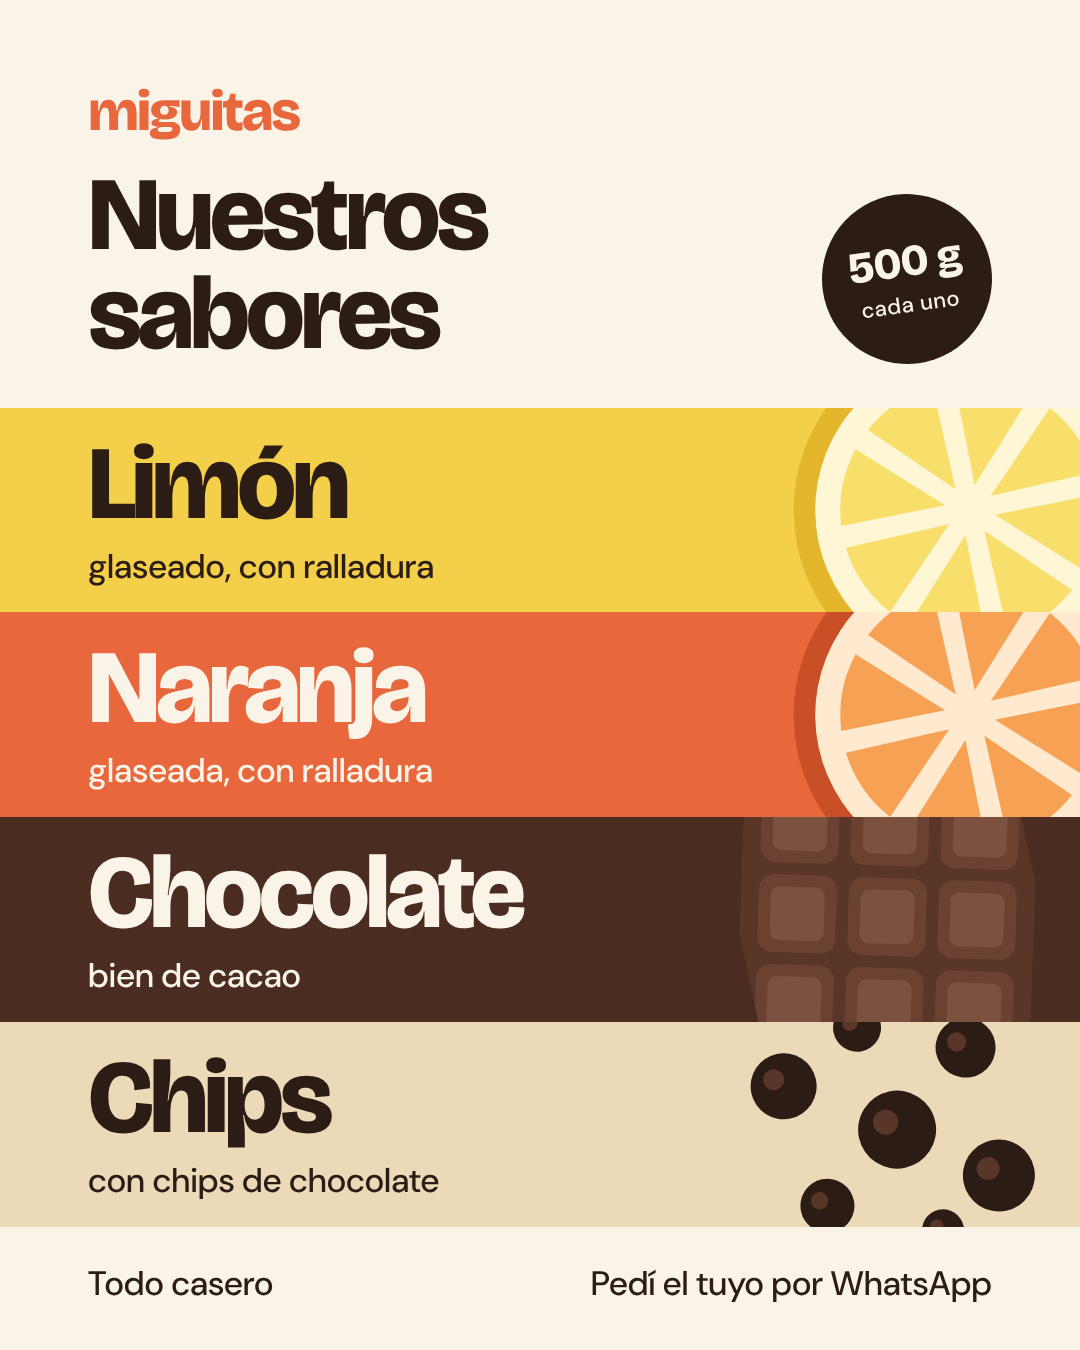
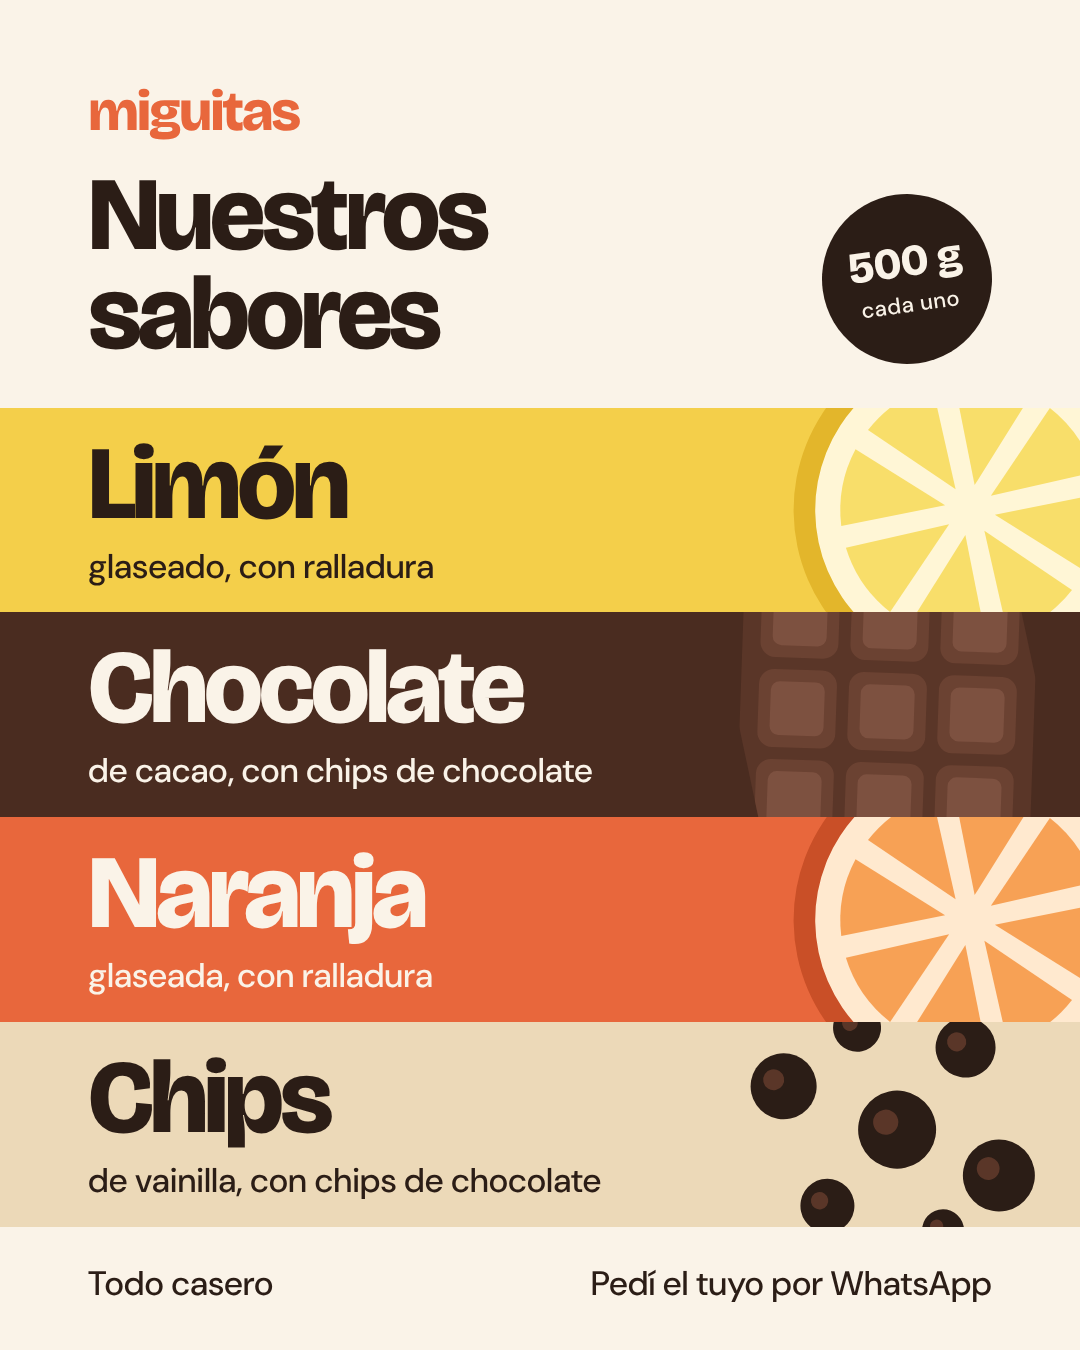
Instagram: orden y descripciones de la placa de sabores
Claude-Session: https://claude.ai/code/session_01E37741rvoTVLUcn2uQcmpN

Changed region(s): [[0.0, 0.4356, 1.0, 0.7778], [0.0917, 0.8711, 0.55, 0.9022]]

diff --git a/instagram/piezas.html b/instagram/piezas.html
@@ -97,9 +97,9 @@ body{background:#ddd;display:flex;flex-wrap:wrap;gap:40px;padding:40px;font-fami
 <div class="pieza post" id="p-sabores">
   <div class="cab"><div><div class="marca chica" style="color:var(--mandarina)">miguitas</div><h1>Nuestros<br>sabores</h1></div><div class="peso"><div>500 g<small>cada uno</small></div></div></div>
   <div class="sabor" style="background:var(--limon)"><b>Limón</b><span>glaseado, con ralladura</span><svg viewBox="0 0 100 100"><circle cx="50" cy="50" r="49" fill="#e3b62b"/><circle cx="50" cy="50" r="43" fill="#fff6d6"/><path d="M56.5 52.7L85.9 53.1A36 36 0 0 1 77.6 73.1Z" fill="#f8de6a"/><path d="M52.7 56.5L73.1 77.6A36 36 0 0 1 53.1 85.9Z" fill="#f8de6a"/><path d="M47.3 56.5L46.9 85.9A36 36 0 0 1 26.9 77.6Z" fill="#f8de6a"/><path d="M43.5 52.7L22.4 73.1A36 36 0 0 1 14.1 53.1Z" fill="#f8de6a"/><path d="M43.5 47.3L14.1 46.9A36 36 0 0 1 22.4 26.9Z" fill="#f8de6a"/><path d="M47.3 43.5L26.9 22.4A36 36 0 0 1 46.9 14.1Z" fill="#f8de6a"/><path d="M52.7 43.5L53.1 14.1A36 36 0 0 1 73.1 22.4Z" fill="#f8de6a"/><path d="M56.5 47.3L77.6 26.9A36 36 0 0 1 85.9 46.9Z" fill="#f8de6a"/></svg></div>
+  <div class="sabor" style="background:var(--choco);color:var(--crema)"><b>Chocolate</b><span>de cacao, con chips de chocolate</span><svg class="chica" viewBox="0 0 100 100"><g transform="rotate(14 50 50)"><rect x="0" y="0" width="98" height="98" rx="9" fill="#5a3628"/><rect x="6" y="6" width="26" height="26" rx="5" fill="#6b4232"/><rect x="10" y="10" width="18" height="18" rx="3" fill="#7d5140"/><rect x="36" y="6" width="26" height="26" rx="5" fill="#6b4232"/><rect x="40" y="10" width="18" height="18" rx="3" fill="#7d5140"/><rect x="66" y="6" width="26" height="26" rx="5" fill="#6b4232"/><rect x="70" y="10" width="18" height="18" rx="3" fill="#7d5140"/><rect x="6" y="36" width="26" height="26" rx="5" fill="#6b4232"/><rect x="10" y="40" width="18" height="18" rx="3" fill="#7d5140"/><rect x="36" y="36" width="26" height="26" rx="5" fill="#6b4232"/><rect x="40" y="40" width="18" height="18" rx="3" fill="#7d5140"/><rect x="66" y="36" width="26" height="26" rx="5" fill="#6b4232"/><rect x="70" y="40" width="18" height="18" rx="3" fill="#7d5140"/><rect x="6" y="66" width="26" height="26" rx="5" fill="#6b4232"/><rect x="10" y="70" width="18" height="18" rx="3" fill="#7d5140"/><rect x="36" y="66" width="26" height="26" rx="5" fill="#6b4232"/><rect x="40" y="70" width="18" height="18" rx="3" fill="#7d5140"/><rect x="66" y="66" width="26" height="26" rx="5" fill="#6b4232"/><rect x="70" y="70" width="18" height="18" rx="3" fill="#7d5140"/></g></svg></div>
   <div class="sabor" style="background:var(--mandarina);color:var(--crema)"><b>Naranja</b><span>glaseada, con ralladura</span><svg viewBox="0 0 100 100"><circle cx="50" cy="50" r="49" fill="#c94f27"/><circle cx="50" cy="50" r="43" fill="#ffe9cf"/><path d="M56.5 52.7L85.9 53.1A36 36 0 0 1 77.6 73.1Z" fill="#f7a155"/><path d="M52.7 56.5L73.1 77.6A36 36 0 0 1 53.1 85.9Z" fill="#f7a155"/><path d="M47.3 56.5L46.9 85.9A36 36 0 0 1 26.9 77.6Z" fill="#f7a155"/><path d="M43.5 52.7L22.4 73.1A36 36 0 0 1 14.1 53.1Z" fill="#f7a155"/><path d="M43.5 47.3L14.1 46.9A36 36 0 0 1 22.4 26.9Z" fill="#f7a155"/><path d="M47.3 43.5L26.9 22.4A36 36 0 0 1 46.9 14.1Z" fill="#f7a155"/><path d="M52.7 43.5L53.1 14.1A36 36 0 0 1 73.1 22.4Z" fill="#f7a155"/><path d="M56.5 47.3L77.6 26.9A36 36 0 0 1 85.9 46.9Z" fill="#f7a155"/></svg></div>
-  <div class="sabor" style="background:var(--choco);color:var(--crema)"><b>Chocolate</b><span>bien de cacao</span><svg class="chica" viewBox="0 0 100 100"><g transform="rotate(14 50 50)"><rect x="0" y="0" width="98" height="98" rx="9" fill="#5a3628"/><rect x="6" y="6" width="26" height="26" rx="5" fill="#6b4232"/><rect x="10" y="10" width="18" height="18" rx="3" fill="#7d5140"/><rect x="36" y="6" width="26" height="26" rx="5" fill="#6b4232"/><rect x="40" y="10" width="18" height="18" rx="3" fill="#7d5140"/><rect x="66" y="6" width="26" height="26" rx="5" fill="#6b4232"/><rect x="70" y="10" width="18" height="18" rx="3" fill="#7d5140"/><rect x="6" y="36" width="26" height="26" rx="5" fill="#6b4232"/><rect x="10" y="40" width="18" height="18" rx="3" fill="#7d5140"/><rect x="36" y="36" width="26" height="26" rx="5" fill="#6b4232"/><rect x="40" y="40" width="18" height="18" rx="3" fill="#7d5140"/><rect x="66" y="36" width="26" height="26" rx="5" fill="#6b4232"/><rect x="70" y="40" width="18" height="18" rx="3" fill="#7d5140"/><rect x="6" y="66" width="26" height="26" rx="5" fill="#6b4232"/><rect x="10" y="70" width="18" height="18" rx="3" fill="#7d5140"/><rect x="36" y="66" width="26" height="26" rx="5" fill="#6b4232"/><rect x="40" y="70" width="18" height="18" rx="3" fill="#7d5140"/><rect x="66" y="66" width="26" height="26" rx="5" fill="#6b4232"/><rect x="70" y="70" width="18" height="18" rx="3" fill="#7d5140"/></g></svg></div>
-  <div class="sabor" style="background:var(--chips)"><b>Chips</b><span>con chips de chocolate</span><svg class="chica" viewBox="0 0 100 100"><circle cx="18" cy="30" r="11" fill="#2b1d16"/><circle cx="15.2" cy="27.2" r="3.5" fill="#5a3628"/><circle cx="46" cy="16" r="8" fill="#2b1d16"/><circle cx="44.0" cy="14.0" r="2.6" fill="#5a3628"/><circle cx="52" cy="52" r="13" fill="#2b1d16"/><circle cx="48.8" cy="48.8" r="4.2" fill="#5a3628"/><circle cx="80" cy="30" r="10" fill="#2b1d16"/><circle cx="77.5" cy="27.5" r="3.2" fill="#5a3628"/><circle cx="24" cy="72" r="9" fill="#2b1d16"/><circle cx="21.8" cy="69.8" r="2.9" fill="#5a3628"/><circle cx="82" cy="74" r="12" fill="#2b1d16"/><circle cx="79.0" cy="71.0" r="3.8" fill="#5a3628"/><circle cx="60" cy="88" r="7" fill="#2b1d16"/><circle cx="58.2" cy="86.2" r="2.2" fill="#5a3628"/></svg></div>
+  <div class="sabor" style="background:var(--chips)"><b>Chips</b><span>de vainilla, con chips de chocolate</span><svg class="chica" viewBox="0 0 100 100"><circle cx="18" cy="30" r="11" fill="#2b1d16"/><circle cx="15.2" cy="27.2" r="3.5" fill="#5a3628"/><circle cx="46" cy="16" r="8" fill="#2b1d16"/><circle cx="44.0" cy="14.0" r="2.6" fill="#5a3628"/><circle cx="52" cy="52" r="13" fill="#2b1d16"/><circle cx="48.8" cy="48.8" r="4.2" fill="#5a3628"/><circle cx="80" cy="30" r="10" fill="#2b1d16"/><circle cx="77.5" cy="27.5" r="3.2" fill="#5a3628"/><circle cx="24" cy="72" r="9" fill="#2b1d16"/><circle cx="21.8" cy="69.8" r="2.9" fill="#5a3628"/><circle cx="82" cy="74" r="12" fill="#2b1d16"/><circle cx="79.0" cy="71.0" r="3.8" fill="#5a3628"/><circle cx="60" cy="88" r="7" fill="#2b1d16"/><circle cx="58.2" cy="86.2" r="2.2" fill="#5a3628"/></svg></div>
   <div class="pie"><span>Todo casero</span><span>Pedí el tuyo por WhatsApp</span></div>
 </div>
 
